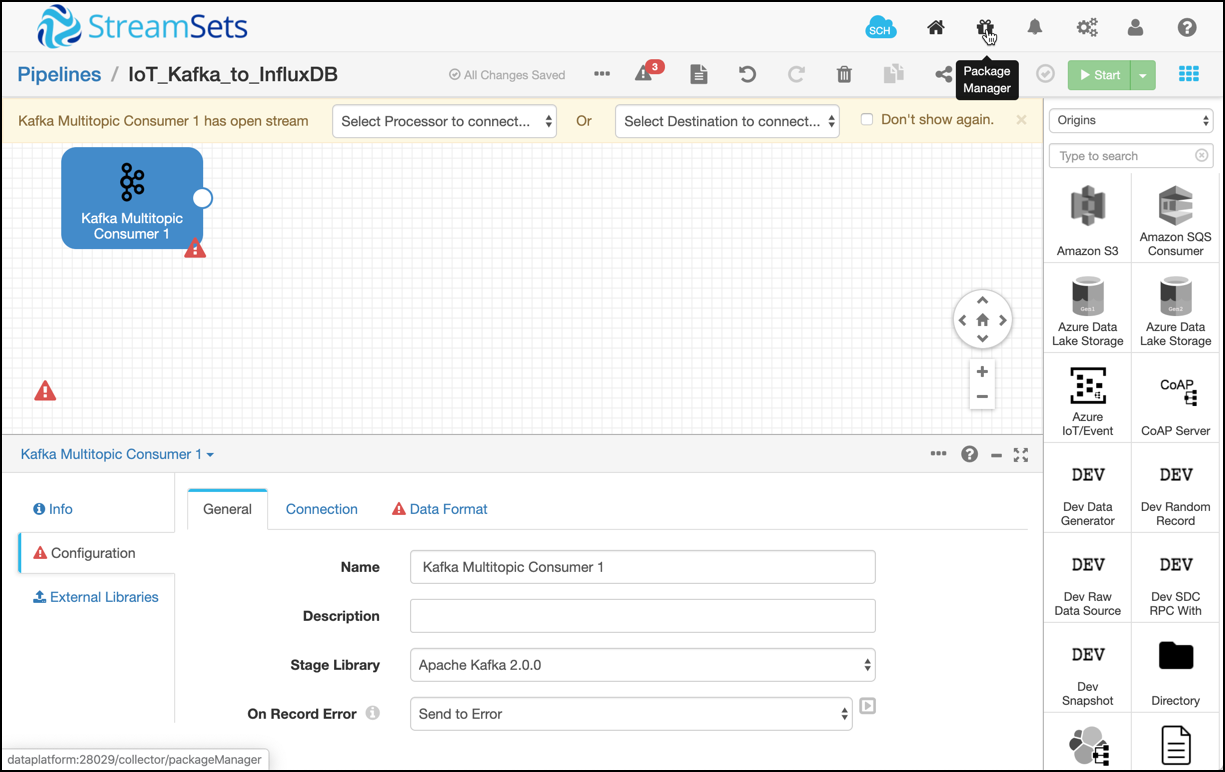
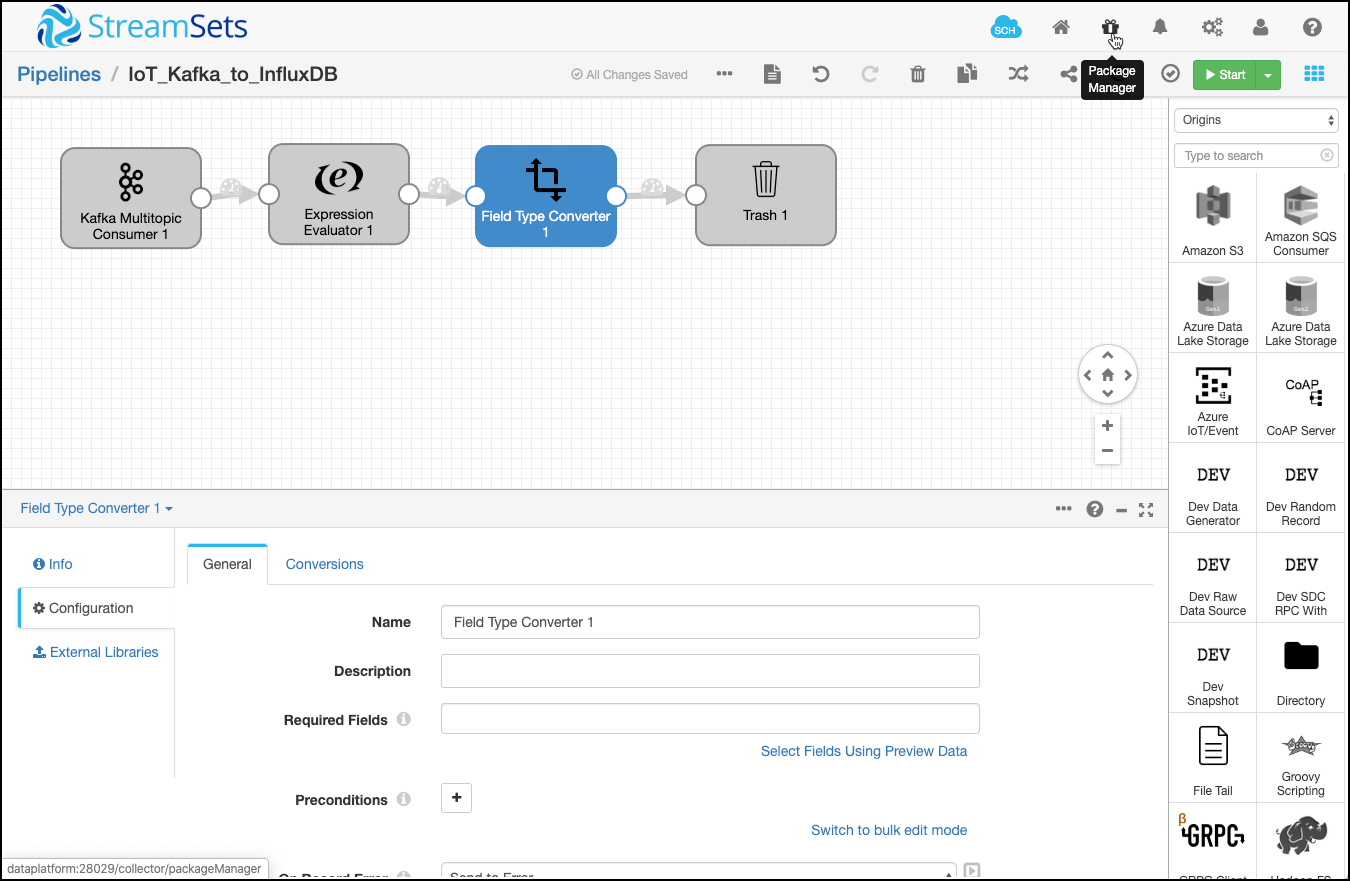
update

diff --git a/12-iot-streaming-timeseries/README.md b/12-iot-streaming-timeseries/README.md
@@ -95,22 +95,7 @@ Next we will Integrate the message from Kafka with InfluxDB. For that we will be
 
 ## Integrate Kafka with InfluxDB using StreamSets
 
-Create a new pipeline and name it `IoT_Kafka_to_InfluxDB`. On the Pipeline canvas, add a `Kafka Multitopic Consumer` origin. For InfluxDB we first have to install the InfluxDB Library, as it is not pre-installed with the version of StreamSets which is installed on the Dataplatform. 
-
-![Alt Image Text](./images/streamsets-package-manager.png "MQTT UI Connect")
-
-In the **Type to search** box enter `Influx` and you should see the `InfluxDB 0.9+` library appear. The version might be different. 
-
-Install it by selecting the item and clicking on the `+` on the top right corner. 
-
-Streamsets will download the library and once finished will tell you to restart StreamSets. You can do that using the following docker command.
-
-```
-docker restart streamsets-1
-```
-
-Relogin to StreamSets once restarted and navigate back to the `IoT_Kafka_to_InfluxDB` pipeline. 
-Now you should be able to select `InfluxDB` from the list of destination. 
+Create a new pipeline and name it `IoT_Kafka_to_InfluxDB`. On the Pipeline canvas, add a `Kafka Multitopic Consumer` origin and use a temporary `Trash` for the destination. Later we will replace the Trash destination by the `InfluxDB` destination. 
 
 Configure the **Kafka Multitopic Consumer** using the following settings
 
@@ -118,11 +103,12 @@ Configure the **Kafka Multitopic Consumer** using the following settings
 * **Topic List**: `iot-v1`
 * **Data Format**: `JSON`
 
-Run the pipeline already once in **Preview Mode** to see if data can be consumed from Kafka and to get StreamSets to know about the fields available. 
 
 Add a **Expression Evaluator** and a **Field Type Converter** processor inbetween **Kafka Multitopic Consumer** and **Influx DB**. The pipeline should now look as shown below:
 
 ![Alt Image Text](./images/streamsets-pipeline-with-processors.png "MQTT UI Connect")
+
+Run the pipeline already once in **Preview Mode** to see if data can be consumed from Kafka and to get StreamSets to know about the fields available. 
 
 With the **Expression Evaluator** procesor we specify the name of the measurement, needed for the **InfluxDB** destination. Configure it using the following settings:
 
@@ -137,6 +123,30 @@ With the **Field Type Converter** procesor we convert the string timestamp to a 
 * **Convert to Type**: `DATETIME`
 * **Data Format**: `Other...`
 * **Other Data Format**: `yyyy-MM-dd'T'HH:mm:ss.SSSZ`
+
+The filled-out settings for the converter can be seen below
+
+![Alt Image Text](./images/streamsets-preview.png "MQTT UI Connect")
+
+Run the Pipeline once more in Preview mode to see if the date conversion workes as expected.
+
+![Alt Image Text](./images/streamsets-preview-conversion.png "MQTT UI Connect")
+
+For InfluxDB we first have to install the InfluxDB Library, as it is not pre-installed with the version of StreamSets which is installed on the Dataplatform. 
+
+![Alt Image Text](./images/streamsets-package-manager.png "MQTT UI Connect")
+
+In the **Type to search** box enter `Influx` and you should see the `InfluxDB 0.9+` library appear. The version might be different. 
+
+Install it by selecting the item and clicking on the `+` on the top right corner. 
+
+Streamsets will download the library and once finished will tell you to restart StreamSets. You can do that using the following docker command.
+
+```
+docker restart streamsets-1
+```
+
+Relogin to StreamSets once restarted and navigate back to the `IoT_Kafka_to_InfluxDB` pipeline. Remove the `Trash` destination and replace it by the `InfluxDB` destination, now available from the list of destinations. 
 
 Configure the **InfluxDB** using the following settings
 
